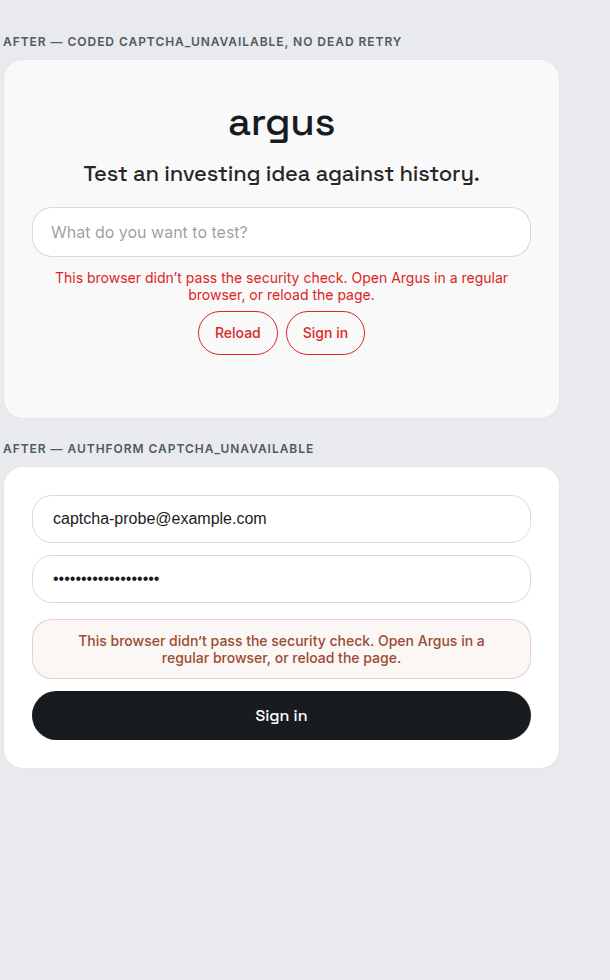
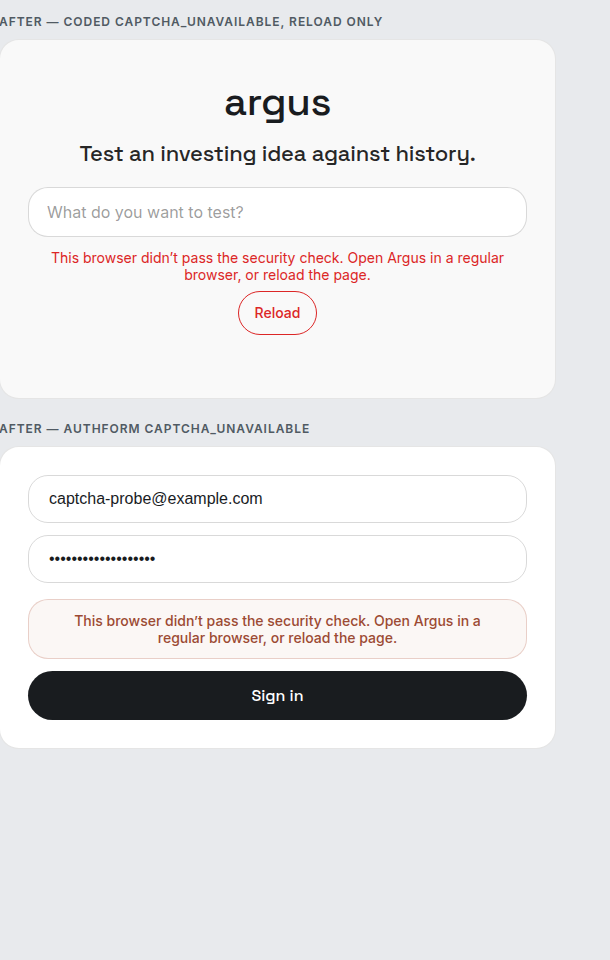
docs(web): refresh #665 after visual to Reload-only empty chat
Empty-chat captcha_unavailable no longer offers Sign in. before.png
is unchanged.

diff --git a/docs/reports/evidence/665/README.md b/docs/reports/evidence/665/README.md
@@ -8,9 +8,9 @@ Turnstile is not bypassed.
 
 - `before.png` — parent-tip behavior: generic temporary-chat copy + **Try again**;
   AuthForm still said “try again.”
-- `after.png` — this tip: `auth.errors.captcha_unavailable` + **Reload** +
-  **Sign in** on empty chat; AuthForm uses the same honest copy and no
-  same-path retry.
+- `after.png` — this tip: `auth.errors.captcha_unavailable` + **Reload**
+  only on empty chat (Sign in is a same-browser dead path); AuthForm uses
+  the same honest copy and keeps submit.
 - `before-after-collage.png` — both columns together.
 
 Source HTML (gitignored): `temp/issue-665-ux-fixtures.html`.
